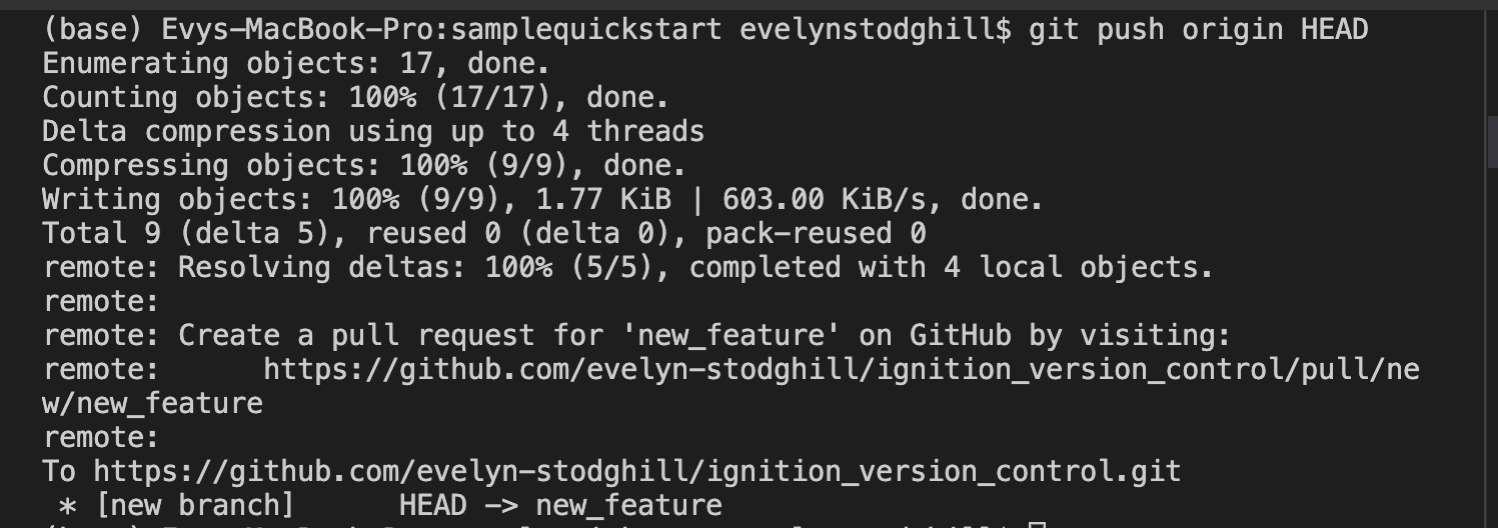
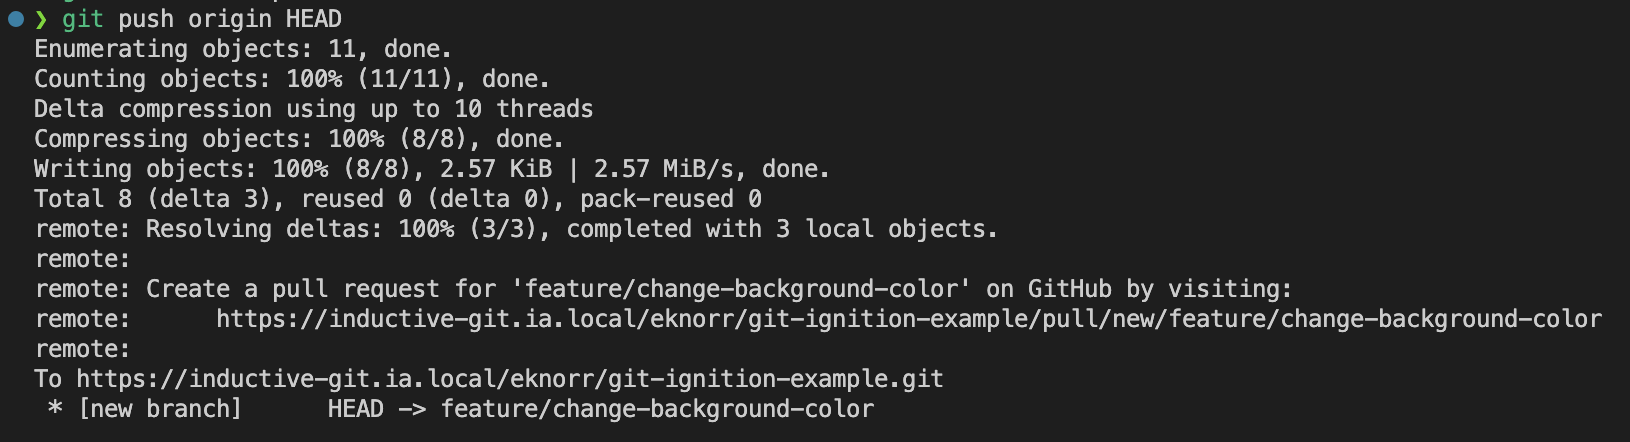
Feature: Ignition Lab pt. 3

Changed region(s): [[0.0, 0.0, 0.9826, 1.0], [0.9826, 0.2059, 1.0, 0.3235], [0.6756, 0.9706, 0.7063, 1.0]]

diff --git a/Ignition.md b/Ignition.md
@@ -14,8 +14,9 @@
       - [Add .gitignore file](#add-gitignore-file)
       - [Create a remote repository](#create-a-remote-repository)
       - [Initialize the local repository](#initialize-the-local-repository)
-  - [Develop a New Feature](#develop-a-new-feature)
-  - [How to Submit a Pull Request](#how-to-submit-a-pull-request)
+    - [Develop a New Feature](#develop-a-new-feature)
+    - [Submit a Pull Request](#submit-a-pull-request)
+    - [Merge the pull request](#merge-the-pull-request)
   - [Additional Resources](#additional-resources)
 
 ## Purpose
@@ -45,6 +46,8 @@ This is a _Getting Started_ tutorial intended for those who are new or newer to 
 ## Procedure
 The goal of this exercise is to focus on version control and how it works with Ignition. That said, Ignition Quick Start project will be used as a starting place so there is something to add to a repository and version control. It is good to note that while this guide is used with Quick Start, the procedure is the same with a project where Quick Start isn't used. All references to the Quick Start project can be replaced with your project name. 
 
+---
+
 ### Set up the Ignition Gateway
 1. Commission and start the Ignition Gateway
 2. After commissioning, select "Yes, Enable Quick Start"
@@ -52,6 +55,8 @@ The goal of this exercise is to focus on version control and how it works with I
    2. [Here](https://docs.inductiveautomation.com/display/DOC80/Quick+Start+Guide) is a guide to the Ignition Quick Start if needed
 
 ![Gateway Startup Page](images/IgnitionQuickStart.png)
+
+---
 
 ### Initialize Repository 
 #### Open the project on Visual Studio Code
@@ -105,7 +110,7 @@ git config --global user.email "your@email.addr"
     git remote add origin <Your version control repository link>
     git add .
     git commit -m "Initial commit"
-    git push -u origin master
+    git push -u origin main
     ```
 2. About the commands:
 - `git init`: 
@@ -120,7 +125,7 @@ git config --global user.email "your@email.addr"
   - `commit` is the command for committing your work. A commit is good to do regularly, it allows for going back to the exact state of your work at the time of the commit.
   - `-m "Initial commit"` adds a message to the commit. In this case, the message is "Initial commit". It is important to be specific when writing the messages as it becomes difficult to remember what each commit was for and can be confusing if there was ever a need to rollback to a specific commit.
   - Without the `-m` it will open a text editor with a file that you can type the message into.
-- `git push origin main` allows for pushing all of the commits to the remote master.
+- `git push origin main` allows for pushing all of the commits to the remote main.
 
 
 You have just made and initialized a GitHub repository. To verify, you can go to your GitHub account and see the new repository. Below is an example
@@ -128,49 +133,86 @@ You have just made and initialized a GitHub repository. To verify, you can go to
 ![Initial Commit on Repo](images/initial_commit.png)
 
 ---
-## Develop a New Feature
-Now that the repository has been initialized, it's time to add a new feature. 
+### Develop a New Feature
+Now that your repository has been initialized, it's time to add a new feature. 
 
-- Create a new branch by typing this in the terminal: `git checkout -b new-feature`.
-  - The `checkout` command allows for navigating to a branch. This command can also be used switching to another branch. For example, to get to the master branch the command is `git checkout main`.
-  - The `-b` stands for branch. This creates the new branch.
-  - `new_feature` is the name of your branch.
-  - The [IA Git Style Guide] has a section on branching naming convention that can be used in the future.
+1. Create a new branch by running the following command in the integrated terminal
+   > `git checkout -b feature/change-background-color`.
+     - The `checkout` command allows for navigating to a branch. This command can also be used switching to another branch. For example, to get to the main branch the command is `git checkout main`.
+     - The `-b` stands for branch. This creates the new branch.
+     - `feature/change-background-color` is the name of your branch.
+       - The [IA Git Style Guide](https://inductive-git.ia.local/eknorr/git-style-guide#branches-1) has a section on branching naming convention that can be used in the future.
 
-- Open the Ignition Designer and make a new view called `example_view`.
+2. Open the Ignition Designer and make a new view called `example_view`.
   ![Creating a New View](images/new_view_ignition.png)
 
-- Edit the background color, for this example the background has been changed to red.
+3. Edit the background color, for this example the background has been changed to red.
   ![Edited View](images/edited_view.png)
-- Once your new feature has been added, save in the Ignition Designer and return to your terminal.
-- To see what you have edited, use the command `git status`. This will show you the status of all your work within the branch.
-  - You should see a few files modified specifically in `com.inductiveautomation.perspective`. 
+4. Once your new feature has been added, save in the Ignition Designer and return to your terminal.
+5. In the integrated terminal, run `git status` to show you the status of all your work within the branch.
+  - This should show that several files have been modified, specifically in `com.inductiveautomation.perspective`.
 
 ![Results from `git status`](images/git_status.png)
 
-- We now need to add these changes to the remote repository. Start with this command `git commit -am "Added cool new feature"`. 
-  - This is the `commit` command which we have done before but with the additional `-am`. The `a` stands for add. It removes the need for the `git add .` command we did earlier. The `m` stands for message.
+> :bulb: **_FAQ_**: What if `git status` shows modified files I didn't actually edit?
+>
+> This can happen for several reasons, a couple common problems are listed here:
+> 1. When a view or script is opened in the Ignition designer, the `resource.json` file for that view or script can be automatically updated by Ignition, even if no changes were made.
+>     - Solution: If you don't need these changes, you can run the following commands to "stash" these changes and remove them from the working tree.
+>       - `git stash push path/to/file`
+>       - If multiple files within the same directory need to be stashed, you can use `git stash push path/to/parent/*`, which will stash all modified files in that parent directory.
+> 2. You may have actually made changes to those files, and they belong in this feature.
+>     - Solution: Add the unexpectedly modified files to either this commit or to another commit if it belongs to another part of the same feature.
+>       - `git add path/to/unexpected/file && git commit -m "I need these changes, but they don't belong to the other part of my feature"`
+>       - `git add . && git commit -m "I included all my changes, even the ones I didn't expect"`
 
-- Use the command `git push origin HEAD` to push these changes in the commit to your remote repo. You should see in the terminal a new branch was created.
-  - `HEAD` is the current branch. This command in full is to push to the remote branch, `new_feature`.
-![Results from `git push origin HEAD`](images/new_branch_push.png)
-  - You should be pushing to your remote branch anytime you are done working on the branch, whether you are going to work on a different branch or are done working for the day. This allows other people to pick up where you left off without the chance of doubling up on work.
+6. Commit the new feature to the local repository by running the command `git commit -m "Feature: Changed background color"` in the integrated terminal.
+     - This is the `commit` command that was done earlier, but now to commit the new feature.
 
-## How to Submit a Pull Request
+7. Push the new feature from to the remote repository
+    - `git push origin HEAD`
+      - `HEAD` is the current branch. This command in full is to push to the remote branch, `feature/change-background-color`.
+      - Make sure you are connected to the IA VPN if your remote repository is hosted on inductive-git.ia.local
+    - You should see in the terminal a new branch was created.
+      ![Results from `git push origin HEAD`](images/new_branch_push.png)
 
-Pull requests are used when you want to add your code into the master branch. This allows for a review of your work and to get the team on board with the changes that are about to be added. To put in a pull request perform the below steps.
+> :memo: **_Note_**: In this example, `HEAD` was used as a shortcut to reference the current branch name. Note that the command `git push origin feature/change-background-color` would have had the same effect. Often, it is simpler to use head to refer to the branch you are on instead of trying to remember what the branch was called or making sure it was keyed correctly.
 
-- Push your latest changes to the remote branch.
-- Go to the `Pull requests` tab within GitHub.
-![Pull Request Page](images/pull_request_page.png)
-- Select `New pull request`
-- Select the branch you want to add your code to. This is usually the master branch. Then select the name of your branch. We should see an arrow pointing from `new_feature` to `master`.
-- ![New Feature to Master](images/feature_to_master.png)
-- Add a short description containing the purpose of the pull request. This will allow your reviewers to know what the purpose of the request is.
-- Select the drop down on the green button that says `Create Pull Request` and select `Create Draft Pull Request`.
-  - It is good practice to make a draft pull request first because it allows for you to review the changes you want to pull into the other branch. Make sure the pull request only has the changes directly relating to the branch. In other words, do not try to merge code involving the renaming of a variable when the branch is intended for only merging documentation.
+> :memo: **_Note_**: You should be pushing to your remote branch anytime you are done working on the branch, whether you are going to work on a different branch or are done working for the day. This allows other people to pick up where you left off without the chance of doubling up on work.
 
-- **Common Errors:** The goal of the pull request is to only have intended changes present. This means there should not be a change in the files that you did not alter. The only exception to this are the `resource.json` files.
+---
+
+### Submit a Pull Request
+Pull requests (PRs) let you tell others about changes you've pushed to a branch in a repository on GitHub. Once a pull request is opened, you can discuss and review the potential changes with collaborators and add follow-up commits before your changes are merged into the base branch.
+
+1. There are several ways to easily create a new PR. Choose any method you'd like:
+   -  After pushing changes from the integrated terminal, you can find a link that will take you directly to the Pull Request page with the correct branch selected and title pre-filled.
+    ![Pull request link](images/new_branch_push_link.png)
+   -  On the GitHub webpage, navigate to the `Pull requests` tab of your remote repository. The orange banner will have a shortcut to open a PR for recently pushed changes (shown with blue outline below. Click on the green button to "Compare and pull request" to create..
+   -  Manually create a Pull Request
+      - On the GitHub webpage, navigate to the `Pull requests` tab of your remote repository. 
+      - Select `New pull request` (Shown in pink below)
+      - Select the branch you want to add your code to. This is usually the master branch. Then select the name of your branch. You should see an arrow pointing from `feature/change-background-color` to `main`.
+      ![New Feature to Main](images/feature_to_main.png)
+
+    ![Pull Request Page](images/pull_request_page.png)
+
+2. Add a short description in the comment section containing the purpose of the pull request or a list of features added. This will allow your reviewers to know what the purpose of the request is.
+3. Select the drop down on the green button that says `Create Pull Request` and select `Create Draft Pull Request`.
+4. Finally, after reviewing the pull request, select "Ready for review" to let the repository owner there is a new feature to review.
+
+> :memo: **_Note_**: It is good practice to make a draft pull request first to review the changes you want to pull into the other branch. Make sure the pull request only has the changes directly relating to the branch. In other words, do not try to merge code involving the renaming of a variable when the branch is intended for only merging documentation.
+
+---
+
+### Merge the pull request
+The pull request must be merged before your new feature will be found in the remote repository. It is possible at this point for the repository owner to ask for changes, reject edits, or even reject and close the pull request altogether. In this case, since you are the owner of the repo, let's merge the new feature.
+
+1. 
+
+---
+
+  **Common Errors:** The goal of the pull request is to only have intended changes present. This means there should not be a change in the files that you did not alter. The only exception to this are the `resource.json` files.
   - **Unneeded File:** Sometimes Git will pick up a file that is not needed. For example, binary files. It is best to remove them while your file is still a draft. To do so, use the command ```git rm --cached file_name```.
     - ```rm``` stands for "remove". `cached` removes the file from the staging area. This means it will not be included in both the commit or the push. 
   - **Merge Conflict:** Sometimes when trying to merge, there will be a conflict. This is because what is in the current branch and master are not the same. In order to choose which version you want, use this command: ```git pull origin branch_to_merge_with```. For example, ```git pull origin master``` will pull in all content from the master.
